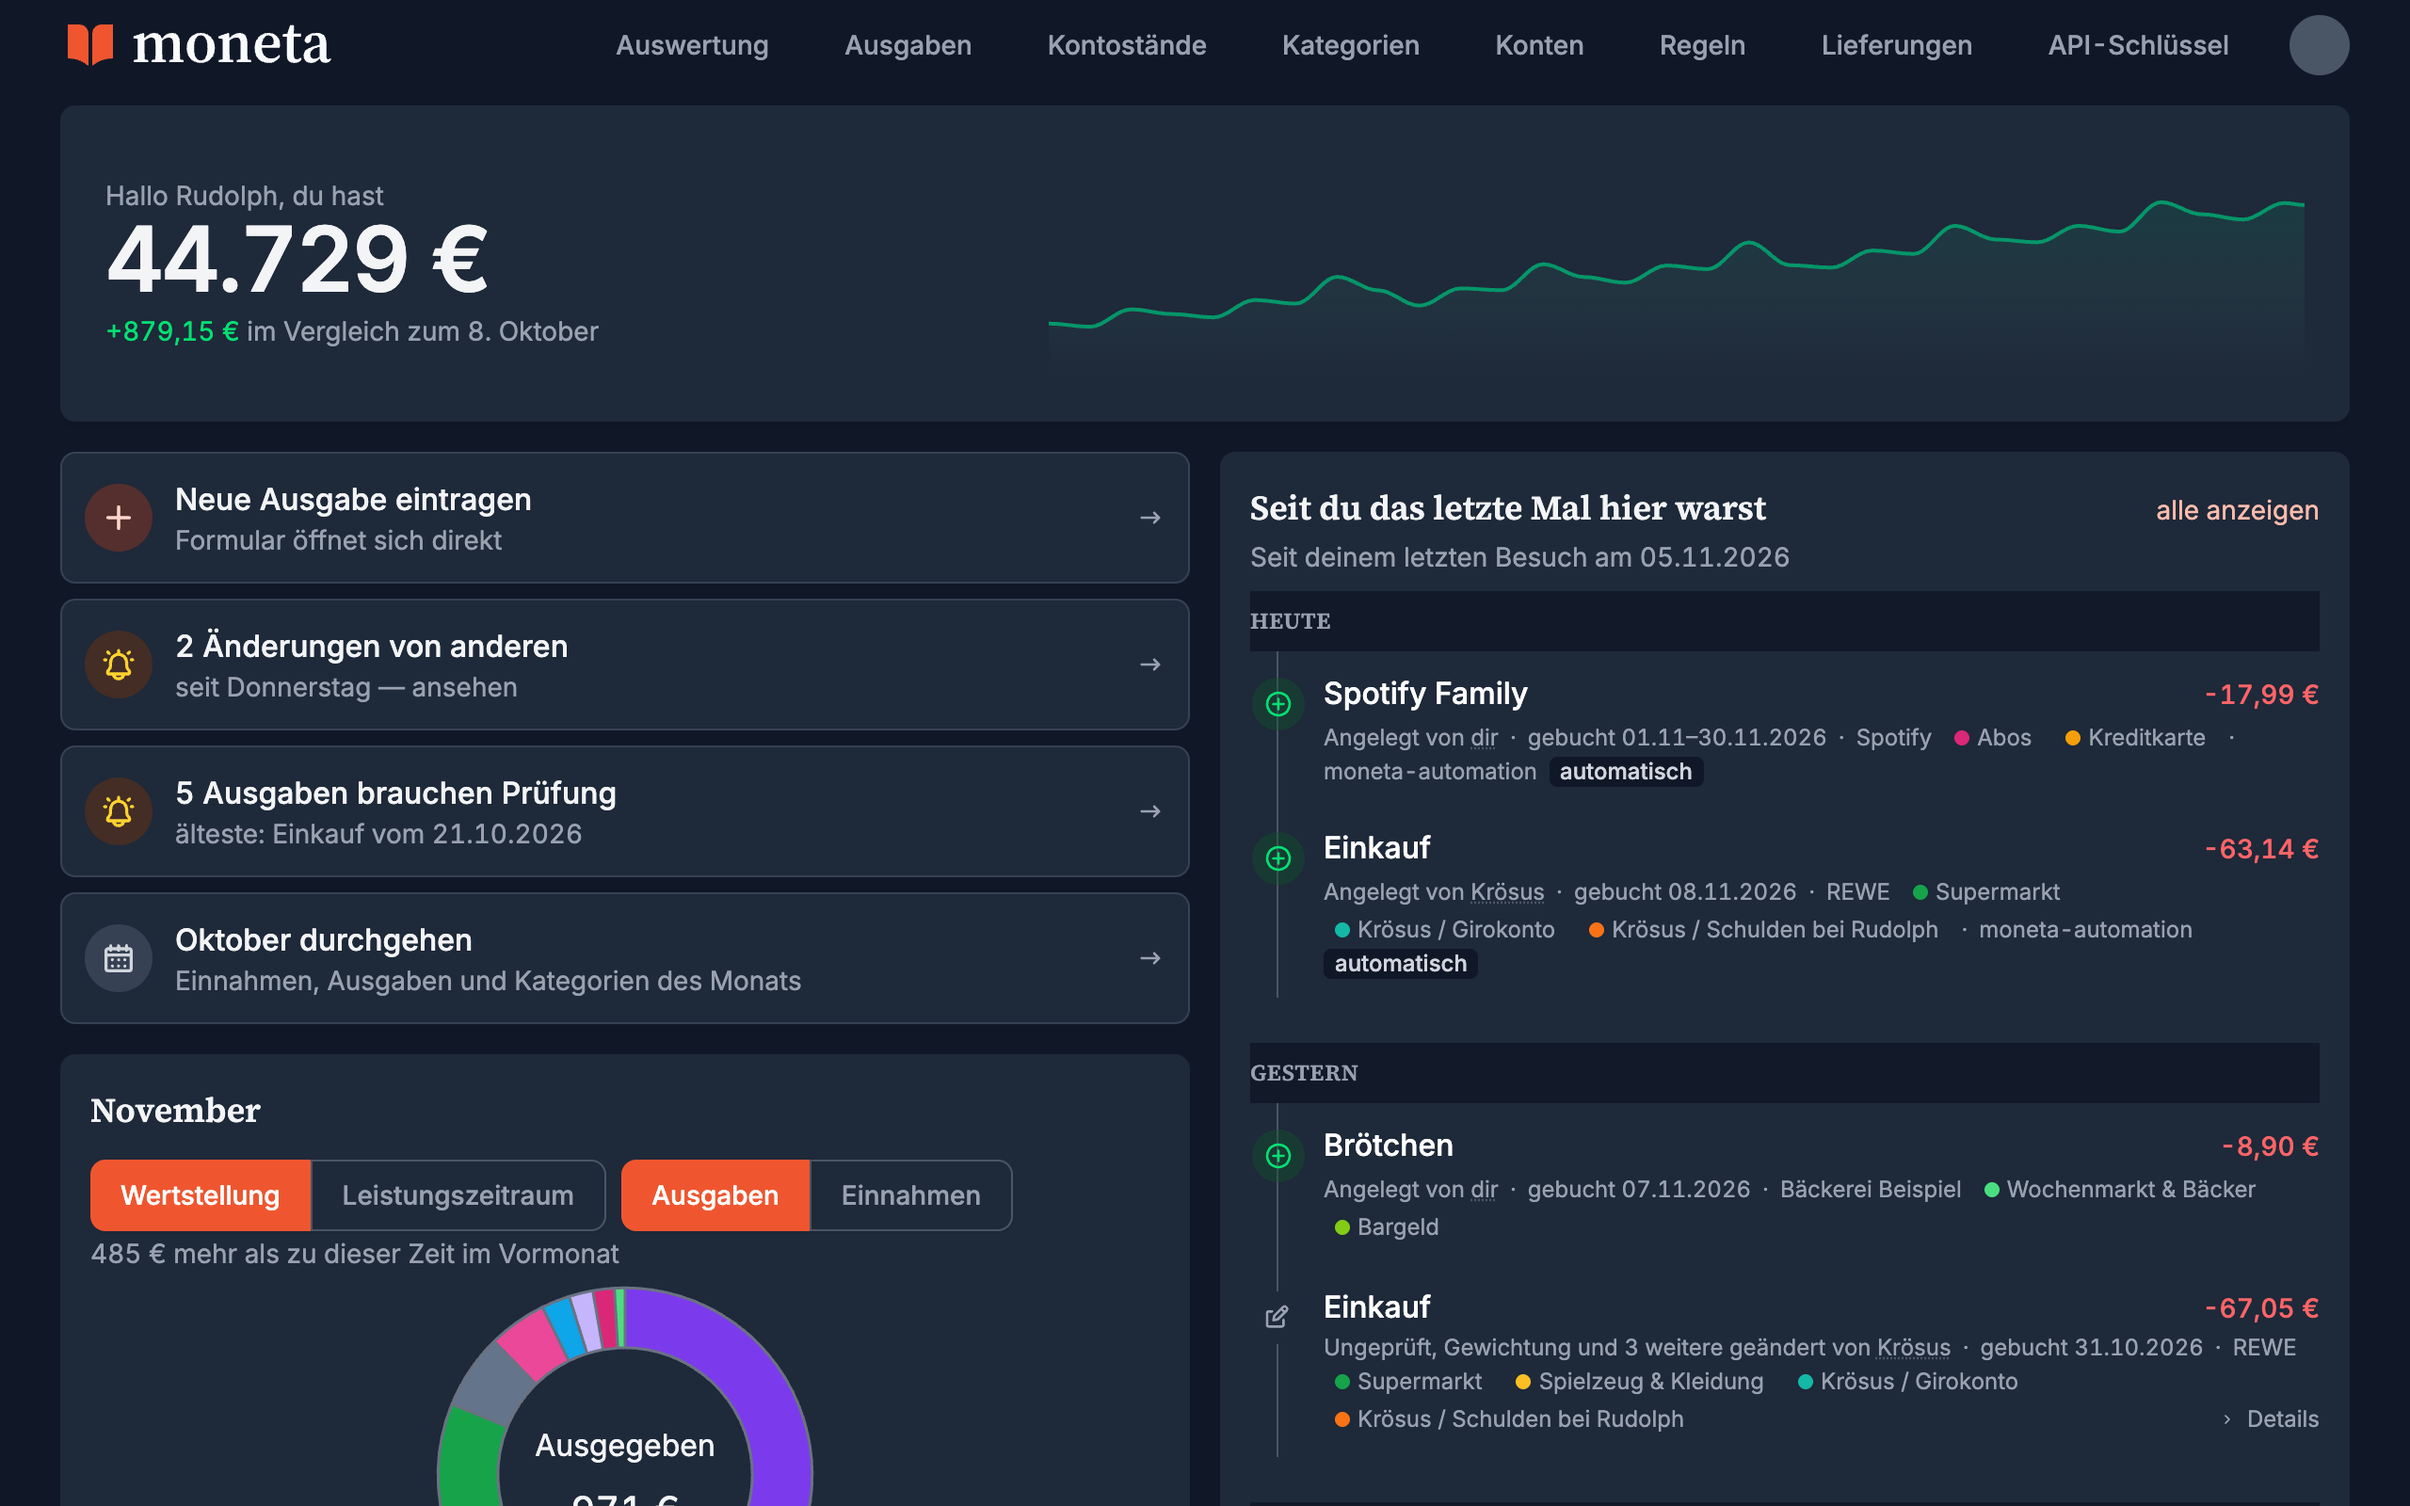
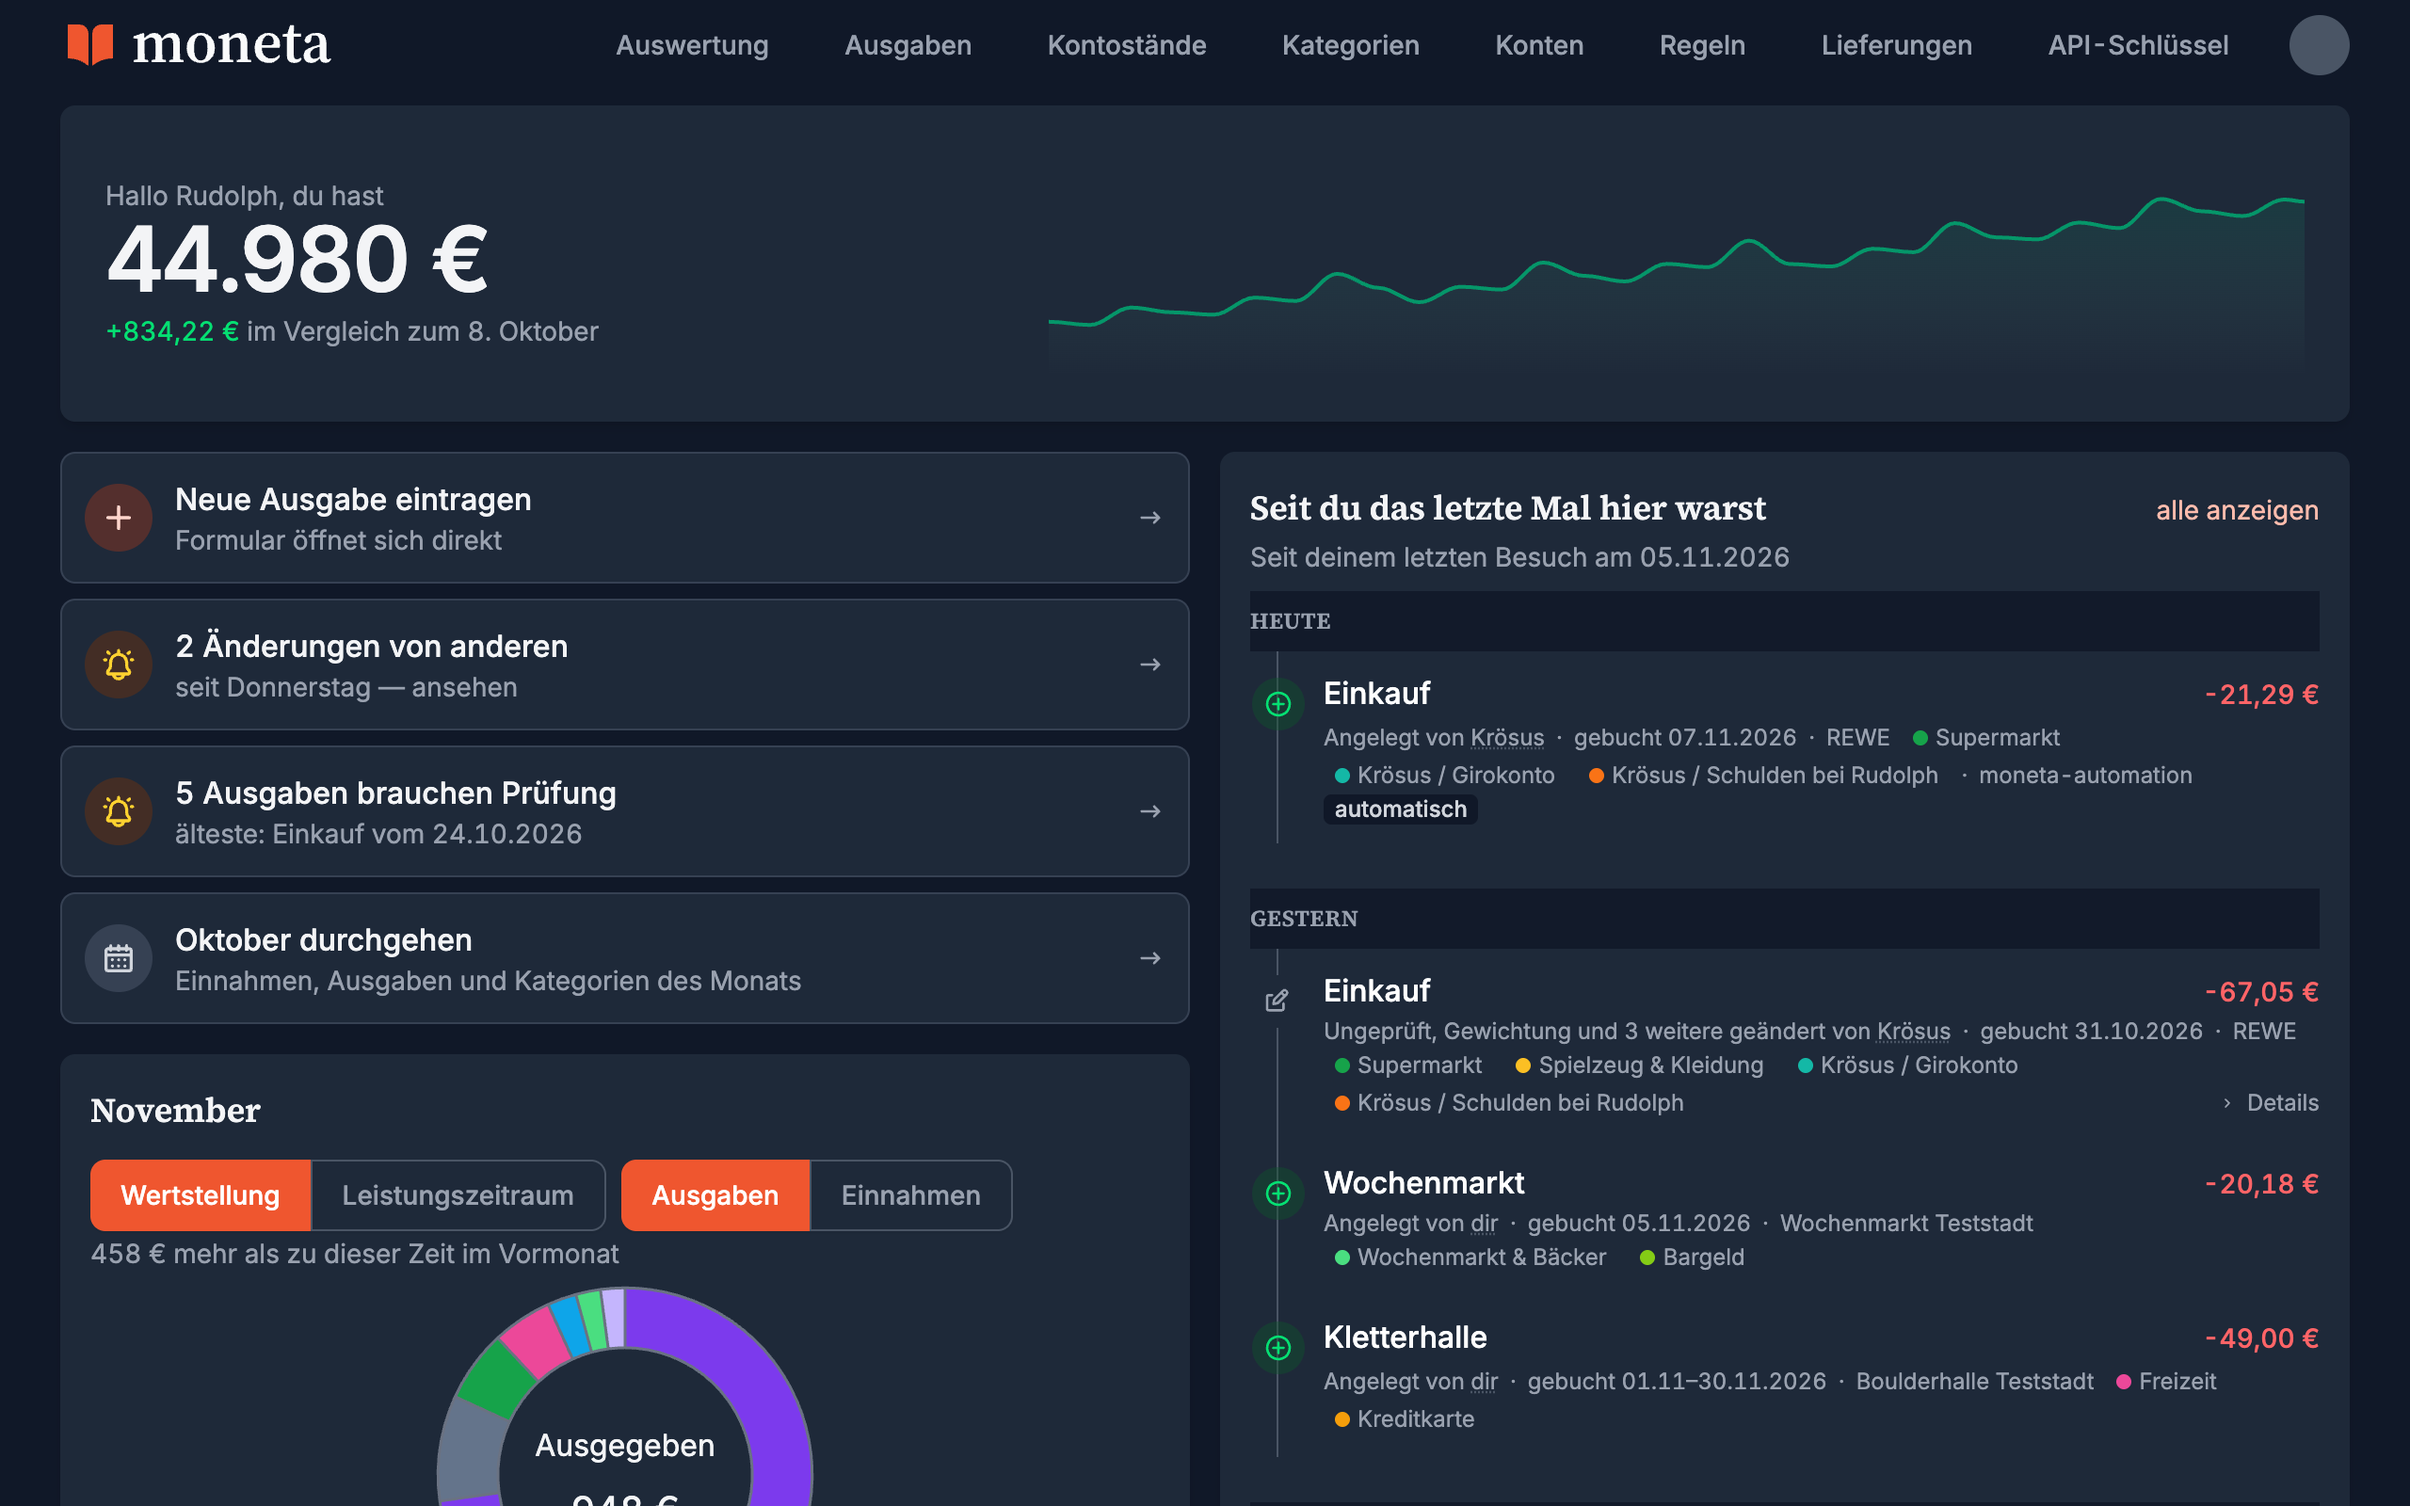
Generate today's demo next to the committed one, and let Chrome pick its port
The guide regenerated over the tracked rudolph.json; it now writes the gitignored demo-export.json. take.mjs reads the port Chrome chose from DevToolsActivePort instead of attaching to whatever already listens on a fixed one. The screenshots are retaken from the regenerated demo.

Claude-Session: https://claude.ai/code/session_01Gv2aUyArLVrej6GN6wLhqa

diff --git a/docs/screenshots/README.md b/docs/screenshots/README.md
@@ -15,14 +15,16 @@ a flat, a child in Kita and a pair of debt accounts, and everything in their boo
 ## Retaking them
 
 1. **Bring the demo up to date.** It ends on the day it was generated, and the start page talks
-   about "this month" and "since your last visit", so regenerate it for today first:
+   about "this month" and "since your last visit", so generate one for today, under the
+   gitignored `*-export.json` name rather than over the committed file:
 
    ```sh
-   python3 docs/demo/generate.py --until "$(date +%F)"
+   python3 docs/demo/generate.py --until "$(date +%F)" --output demo-export.json
    ```
 
-   Do not commit that one. The committed file is pinned to a fixed date so that it can be
-   reproduced byte for byte; when the export format changes, regenerate it without `--until`.
+   The committed `rudolph.json` is pinned to a fixed date so that it can be reproduced byte for
+   byte. Regenerate that one, without `--until` or `--output`, only when the export format
+   changes.
 
 2. **Import it into an empty database.** `moneta import` refuses a database that already holds
    user data, and the first page load moves the visit marker the start page dates its news
@@ -33,7 +35,7 @@ a flat, a child in Kita and a pair of debt accounts, and everything in their boo
        -e POSTGRES_DB=moneta -p 127.0.0.1:5498:5432 postgres:18-alpine
    cd backend
    export MONETA__DATABASE__URL=postgres://moneta:moneta@localhost:5498/moneta
-   cargo run -- import < ../docs/demo/rudolph.json
+   cargo run -- import < ../demo-export.json
    ```
 
 3. **Run the backend signing everybody in as Rudolph's proxy would.** The demo users have no
